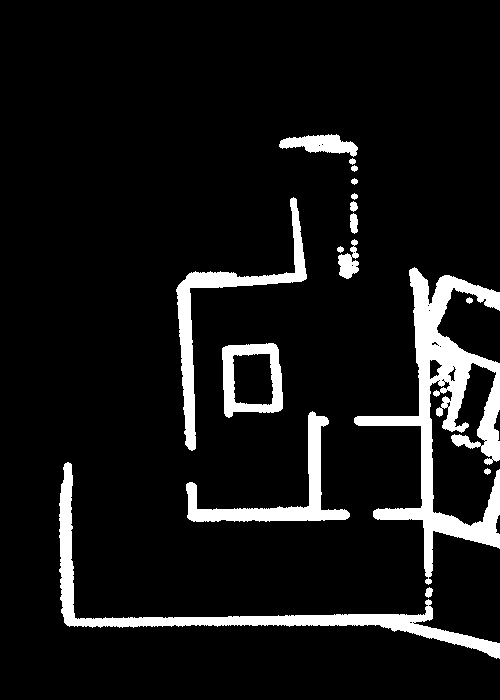
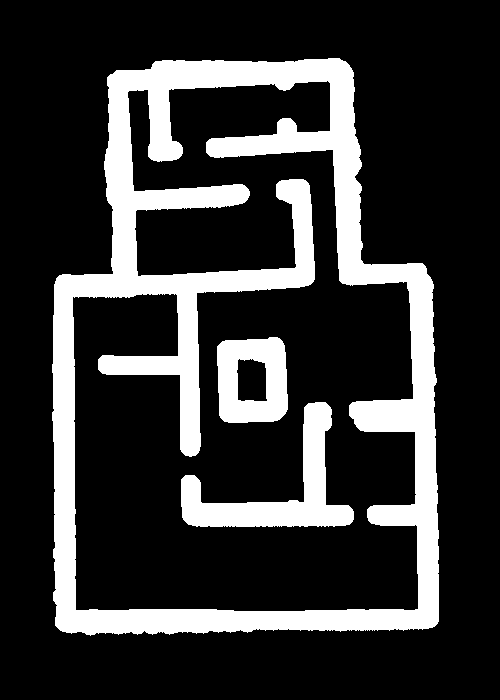
fixing some issues

Changed region(s): [[0.09, 0.06, 1.0, 0.96]]

diff --git a/tp_rob201/tiny_slam.py b/tp_rob201/tiny_slam.py
@@ -197,13 +197,15 @@ class TinySlam:
         return best_score
 
     def _localise_cem(self, lidar, raw_odom_pose):
-        """Cross-Entropy Method optimisation of the odom->map reference pose."""
         raw_odom_pose = np.asarray(raw_odom_pose, dtype=float)
 
         base_ref = np.asarray(self.odom_pose_ref, dtype=float).copy()
         best_delta = np.zeros(3, dtype=float)
         best_pose = self.get_corrected_pose(raw_odom_pose, base_ref)
-        best_score = self.score(lidar, best_pose)
+        
+        # Score inicial — referência para decidir se aplica correção
+        initial_score = self.score(lidar, best_pose)
+        best_score = initial_score
 
         mu = np.zeros(3, dtype=float)
         std = np.asarray(self.localise_std, dtype=float).copy()
@@ -213,7 +215,6 @@ class TinySlam:
 
         for _ in range(int(self.cem_iterations)):
             deltas = np.random.normal(loc=mu, scale=std, size=(k, 3))
-            # Always evaluate current mean and current best
             if k >= 1:
                 deltas[0] = mu
             if k >= 2:
@@ -229,7 +230,6 @@ class TinySlam:
             elite = deltas[elite_idx]
             elite_scores = scores[elite_idx]
 
-            # Keep best seen candidate
             top_i = elite_idx[int(np.argmax(elite_scores))]
             if scores[top_i] > best_score:
                 best_score = scores[top_i]
@@ -241,7 +241,10 @@ class TinySlam:
             std = (1.0 - self.cem_alpha) * std + self.cem_alpha * std_new
             std = np.maximum(std, self.cem_min_std)
 
-        # Apply a bounded update to avoid sudden teleportation when scan matching fails.
+        # Só aplica correção se melhorou pelo menos 5% — evita teleporte
+        if best_score < initial_score * 1.05:
+            return initial_score
+
         applied_delta = np.asarray(best_delta, dtype=float)
         applied_delta[0:2] = np.clip(applied_delta[0:2], -self.max_ref_update[0:2], self.max_ref_update[0:2])
         applied_delta[2] = float(np.clip(applied_delta[2], -self.max_ref_update[2], self.max_ref_update[2]))
@@ -266,66 +269,59 @@ class TinySlam:
         return np.array(points).T
 
     def update_map(self, lidar, pose, goal=None, trajectory=None):
-        """
-        Bayesian map update with new observation
-        lidar : placebot object with lidar data
-        pose : [x, y, theta] nparray, corrected pose in world coordinates
-        goal : [x, y, theta] nparray, current goal in world coordinates
-        trajectory : list of [x, y, theta] nparray, robot trajectory in world coordinates
-        """
         x_ref, y_ref, theta_ref = np.asarray(pose, dtype=float)
-        
-        # 1. Convert lidar data to numpy arrays
+
         lidar_ranges = np.asarray(lidar.get_sensor_values(), dtype=float)
-        ray_angles = np.asarray(lidar.get_ray_angles(), dtype=float)
-        max_range = float(lidar.max_range)
-        
-        # 1.1 Filter out invalid ranges
-        # Keep "no-hit" rays reported at exactly max_range so we can still mark free space.
+        ray_angles   = np.asarray(lidar.get_ray_angles(), dtype=float)
+        max_range    = float(lidar.max_range)
+
         valid_mask = (lidar_ranges > 0.0) & np.isfinite(lidar_ranges) & (lidar_ranges <= max_range)
         if not np.any(valid_mask):
             return
 
         lidar_ranges = lidar_ranges[valid_mask]
-        ray_angles = ray_angles[valid_mask]
+        ray_angles   = ray_angles[valid_mask]
 
-        # Separate "hits" (actual obstacle return) from "no return" (at max range)
+        # --- Filtro de spikes: remove raios muito maiores que os vizinhos ---
+        spike_mask = np.ones(len(lidar_ranges), dtype=bool)
+        for i in range(1, len(lidar_ranges) - 1):
+            neighbors_mean = (lidar_ranges[i-1] + lidar_ranges[i+1]) / 2.0
+            if lidar_ranges[i] > neighbors_mean * 2.0:  # spike: 2x maior que vizinhos
+                spike_mask[i] = False
+        lidar_ranges = lidar_ranges[spike_mask]
+        ray_angles   = ray_angles[spike_mask]
+
         hit_mask = lidar_ranges < max_range
-        
-        
-        # 2. Rays in world frame
+
         angles = ray_angles + theta_ref
         c = np.cos(angles)
         s = np.sin(angles)
 
-        # Used to get rid of unknown cells in front of the robot.
-        # If the lidar range is 100, and the obstacle is at 90, we want to mark free space up to ~80, not all the way to 100.
-        free_end_offset = 2.0 * float(self.grid.resolution)
+        free_end_offset = 4.0 * float(self.grid.resolution)
         free_ranges = np.maximum(lidar_ranges - free_end_offset, 0.0)
-        
-        
+
+        # Limita raios sem retorno a 60% do max_range
+        free_ranges[~hit_mask] = np.minimum(
+            free_ranges[~hit_mask], max_range * 0.6
+        )
+
         x_free = x_ref + free_ranges * c
         y_free = y_ref + free_ranges * s
+        x_occ  = x_ref + lidar_ranges[hit_mask] * c[hit_mask]
+        y_occ  = y_ref + lidar_ranges[hit_mask] * s[hit_mask]
 
-        x_occ = x_ref + lidar_ranges[hit_mask] * c[hit_mask]
-        y_occ = y_ref + lidar_ranges[hit_mask] * s[hit_mask]
-        
+        # Raios com retorno: -0.6 | sem retorno: -0.2 (menos agressivo)
         free_vals = np.where(hit_mask, -0.6, -0.2)
-    
-        # 3. Update occupancy grid (log-odds style increments)
-        # Free space along all rays
+
         for (x1, y1), val in zip(zip(x_free, y_free), free_vals):
             self.grid.add_value_along_line(x_ref, y_ref, float(x1), float(y1), val=val)
 
-        # Occupied only when we really hit something
         if len(x_occ) > 0:
             self.grid.add_map_points(x_occ, y_occ, val=2.0)
-        
-        np.clip(self.grid.occupancy_map, -40, 40, out=self.grid.occupancy_map) # Clip values to [0, 100]
-    
-        # 4. plot for debug
+
+        np.clip(self.grid.occupancy_map, -40, 40, out=self.grid.occupancy_map)
+
         self.grid.display_cv(pose, goal=goal, traj=trajectory)
-    
 
 
     def compute(self):

diff --git a/tp_rob201/my_robot_slam.py b/tp_rob201/my_robot_slam.py
@@ -54,6 +54,14 @@ class MyRobotSlam(RobotAbstract):
         self.planned_path = None
         self.force_replan = True
         self.ticks_failed = 0
+        
+        self.consecutive_path_failures = 0
+        self.max_path_failures = 5
+        
+        self.last_dist_to_goal = np.inf
+        self.no_progress_ticks = 0
+        self.max_no_progress_ticks = 100
+        
     def control(self):
         """
         Main control function executed at each time step
@@ -100,6 +108,26 @@ class MyRobotSlam(RobotAbstract):
 
         return command
 
+    def step_check_progress(self):
+        """Força replan se o robô não está progredindo em direção ao goal."""
+        if self.planned_path is None or self.exploration_state == "return":
+            return
+
+        dist = np.linalg.norm(self.corrected_pose[:2] - self.current_goal[:2])
+
+        if dist < self.last_dist_to_goal - 5.0:  # progrediu pelo menos 5 unidades
+            self.last_dist_to_goal = dist
+            self.no_progress_ticks = 0
+        else:
+            self.no_progress_ticks += 1
+
+        if self.no_progress_ticks >= self.max_no_progress_ticks:
+            print(f"Sem progresso há {self.max_no_progress_ticks} ticks → novo frontier")
+            self.no_progress_ticks = 0
+            self.last_dist_to_goal = np.inf
+            self.force_replan = True
+            self.planned_path = None
+            
     def step_location(self, pose):
         """
         Step function for localization only, to test the localization part of the SLAM
@@ -159,7 +187,19 @@ class MyRobotSlam(RobotAbstract):
                 self.corrected_pose, self.current_goal, mu=1.0
             )
             if not self.planned_path:
-                self.force_replan = True
+                self.consecutive_path_failures += 1
+                print(f"Falha {self.consecutive_path_failures}/{self.max_path_failures}")
+                
+                if self.consecutive_path_failures >= self.max_path_failures:
+                    print("Muitas falhas → retornando para casa")
+                    self.exploration_state = "return"
+                    self.current_goal = np.array([0., 0., 0.])
+                    self.consecutive_path_failures = 0
+                    self.planned_path = self.planner.plan(
+                        self.corrected_pose, self.current_goal, mu=1.0
+                    )
+                else:
+                    self.force_replan = True
                 return
         except Exception as e:
             print("Erro no planejamento:", e)
@@ -167,6 +207,7 @@ class MyRobotSlam(RobotAbstract):
             self.force_replan = True
             return
 
+        self.consecutive_path_failures = 0  # reset ao encontrar path válido
         self.force_replan = False
 
 
@@ -214,29 +255,43 @@ class MyRobotSlam(RobotAbstract):
             except Exception as e:
                 print(f"Display error: {e}")
 
-    
+    def step_validate_path(self):
+        if self.planned_path is None or len(self.planned_path) == 0:
+            return
+
+        lookahead = min(10, len(self.planned_path))
+        for waypoint in self.planned_path[:lookahead]:
+            cell = self.occupancy_grid.conv_world_to_map(waypoint[0], waypoint[1])
+            cx, cy = int(cell[0]), int(cell[1])
+
+            if not (0 <= cx < self.occupancy_grid.x_max_map and
+                    0 <= cy < self.occupancy_grid.y_max_map):
+                continue
+
+            # Verifica parede inflada
+            if hasattr(self.planner, 'map_walls') and self.planner.map_walls[cx, cy] > 0.5:
+                print("Waypoint em parede inflada → replanando")
+                self.force_replan = True
+                self.planned_path = None
+                return
+
+            # Verifica parede recém descoberta no mapa bruto
+            if self.occupancy_grid.occupancy_map[cx, cy] > 2.0:
+                print("Waypoint em parede recém descoberta → replanando")
+                self.force_replan = True
+                self.planned_path = None
+                return
     
     def control_tp5(self):
-        """
-        Control function for TP5: Frontier exploration with path planning
-        - SLAM with localization
-        - Frontier-based exploration
-        - A* path planning
-        - Path following with lookahead
-        """
         pose = self.odometer_values()
-        
-        self.step_location(pose)  # Update localization and map
-                
-        
-        self.step_replanning()  # Replan path if needed
 
-        
+        self.step_location(pose)
+        self.step_validate_path()
+        self.step_check_progress()   # ← novo
+        self.step_replanning()
         command = self.step_execute_plan()
-        
         self.step_display()
-    
+
         self.counter += 1
         return command
-                
             

diff --git a/tp_rob201/planner.py b/tp_rob201/planner.py
@@ -22,7 +22,6 @@ class Planner:
         self.odom_pose_ref = np.array([0, 0, 0])
 
     def get_neighbors(self, current_cell):
-        """ 8-connected neighbors """
         x, y = current_cell
         neighbors = []
         for dx in [-1, 0, 1]:
@@ -31,8 +30,12 @@ class Planner:
                     continue
                 nx, ny = x + dx, y + dy
                 if 0 <= nx < self.grid.x_max_map and 0 <= ny < self.grid.y_max_map:
-                    # check obstacle
                     if self.map_walls[int(nx), int(ny)] < 0.5:
+                        # Movimento diagonal: verifica os dois cantos adjacentes
+                        if abs(dx) == 1 and abs(dy) == 1:
+                            if (self.map_walls[int(x + dx), int(y)] > 0.5 or
+                                self.map_walls[int(x), int(y + dy)] > 0.5):
+                                continue  # bloqueia diagonal que clipa parede
                         neighbors.append((nx, ny))
         return neighbors
 
@@ -42,7 +45,7 @@ class Planner:
 
     def setup_wall_map(self):
         occ_threshold = 2
-        inflation_kernel_size = 7  # era 15 — muito grande, bloqueava corredores
+        inflation_kernel_size = 16  # era 15 — muito grande, bloqueava corredores
         kernel = cv2.getStructuringElement(cv2.MORPH_ELLIPSE, (inflation_kernel_size, inflation_kernel_size))
         occ_map_bin = (self.grid.occupancy_map > occ_threshold).astype(np.uint8)
         self.map_walls = cv2.dilate(occ_map_bin, kernel)
@@ -174,3 +177,5 @@ class Planner:
 
         xw, yw = self.grid.conv_map_to_world(best[0], best[1])
         return np.array([xw, yw, 0.0])
+    
+    

diff --git a/tp_rob201/control.py b/tp_rob201/control.py
@@ -14,7 +14,7 @@ def path_following_control(lidar, current_pose, path, lidar_weight=0.3):
     if path is None or len(path) == 0:
         return {"forward": 0.0, "rotation": 0.0}
     
-    speed_factor = 0.6
+    speed_factor = 0.8
 
     
     x, y, theta = current_pose
@@ -26,7 +26,7 @@ def path_following_control(lidar, current_pose, path, lidar_weight=0.3):
     closest_idx = int(np.argmin(dists))
     
     # Lookahead distance - find target ahead on path
-    lookahead_dist = 20.0
+    lookahead_dist = 15.0
     target = path[-1]
     for i in range(closest_idx, len(path)):
         if np.linalg.norm(current_pose[:2] - np.array(path[i][:2])) >= lookahead_dist:
@@ -49,7 +49,7 @@ def path_following_control(lidar, current_pose, path, lidar_weight=0.3):
         return {"forward": 0.0, "rotation": 0.0}
     
     # Strong attraction to path
-    k_path = 1500.0
+    k_path = 900.0
     k_lateral = 500.0
     F_path_x = k_path * dx_r
     F_path_y = k_path * dy_r
@@ -102,7 +102,7 @@ def path_following_control(lidar, current_pose, path, lidar_weight=0.3):
     F_rep_y = 0.0
     
     dist_param = 20.0
-    k_rep = 60.0
+    k_rep = 30.0
     safety_dist = 8.0
     
     for d, a in zip(laser, angles):
